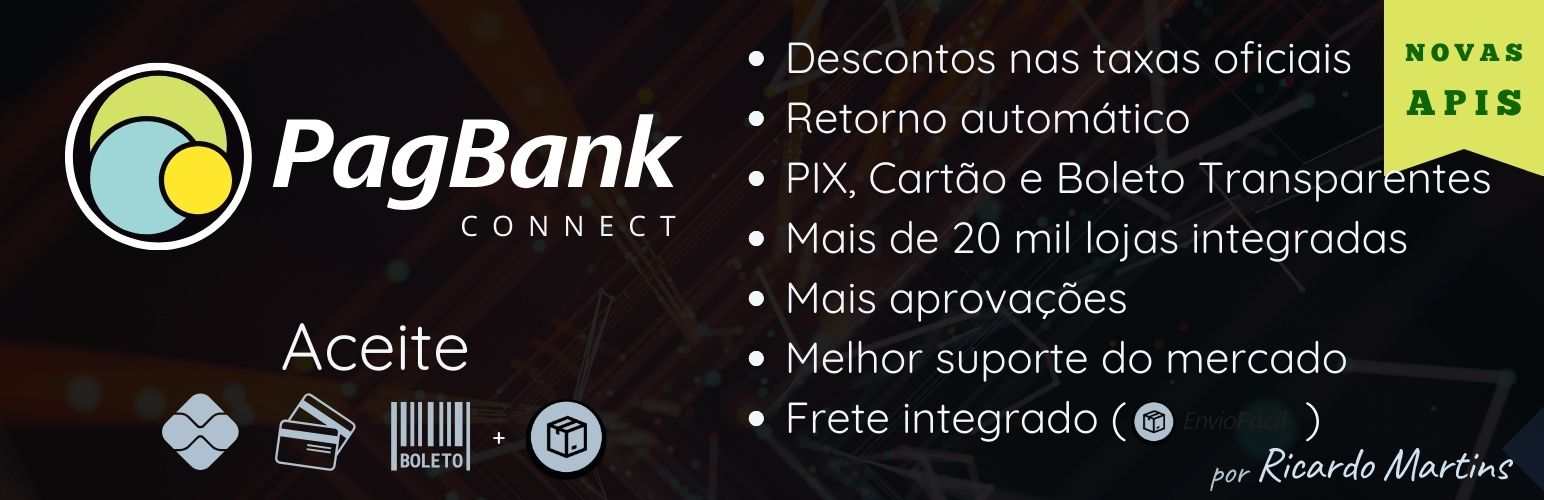
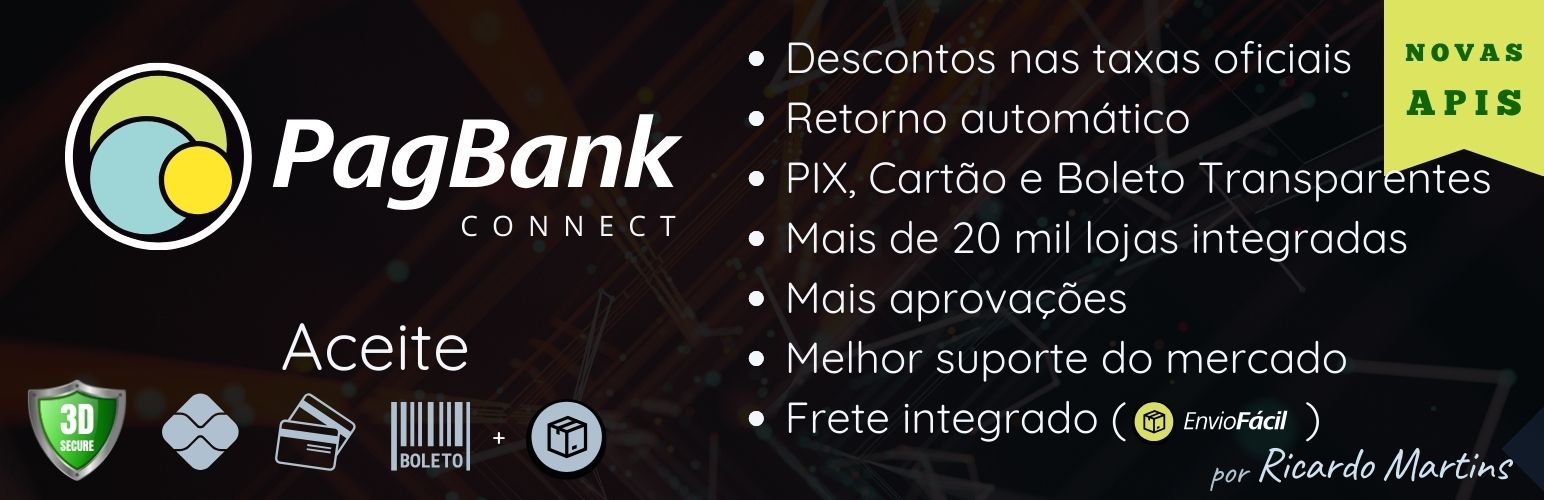
v. 4.2.0 - Adicionado suporte a autenticação 3D Secure, reduzindo drasticamente seus custos com chargebacks, e aumentando significativamente a taxa de aprovação. - Passamos a cachear algumas chamadas repetidas, aumentando significativamente a performance do processo de checkout.

Changed region(s): [[0.0, 0.75, 0.0933, 0.96], [0.715, 0.81, 0.8394, 0.9], [0.342, 0.84, 0.3731, 0.9]]

diff --git a/rm-pagbank.php b/rm-pagbank.php
@@ -11,7 +11,7 @@
  * Plugin Name:       PagBank Connect
  * Plugin URI:        https://pagseguro.ricardomartins.net.br/
  * Description:       Integra seu WooCommerce com as APIs PagSeguro v4 através da aplicação de Ricardo Martins (com descontos nas taxas oficiais), com suporte a PIX transparente em muito mais.
- * Version:           4.1.5
+ * Version:           4.2.0
  * Requires at least: 5.2
  * Tested up to:      6.4.1
  * Requires PHP:      7.4
@@ -32,7 +32,7 @@ use RM_PagBank\EnvioFacil;
 defined( 'ABSPATH' ) || die( 'No direct script access allowed!' );
 
 // Plugin constants.
-define( 'WC_PAGSEGURO_CONNECT_VERSION', '4.1.5' );
+define( 'WC_PAGSEGURO_CONNECT_VERSION', '4.2.0' );
 define( 'WC_PAGSEGURO_CONNECT_PLUGIN_FILE', __FILE__ );
 define( 'WC_PAGSEGURO_CONNECT_BASE_DIR', __DIR__ );
 define( 'WC_PAGSEGURO_CONNECT_URL', plugins_url( __FILE__ ) );

diff --git a/README.md b/README.md
@@ -16,6 +16,7 @@ Conheça a Nova Geração das nossas integrações com PagBank (v. 4.0+).
   <img alt="PIX e Boleto - Configurações" src="https://i.imgur.com/nhwMhUO.jpg" title="PIX e Boleto - Configurações"/>
   <img alt="Admin - Tela do Pedido" src="https://i.imgur.com/CIgTLnv.jpg" title="Admin - Tela do Pedido"/>
   <img alt="Envio Fácil" src="https://i.imgur.com/nQlOBfx.jpg" title="Envio Fácil"/>  
+  <img alt="3D Secure" src="https://i.imgur.com/hqhgWfM.jpg" title="3D Secure"/>  
 </details>
 
 # Descrição
